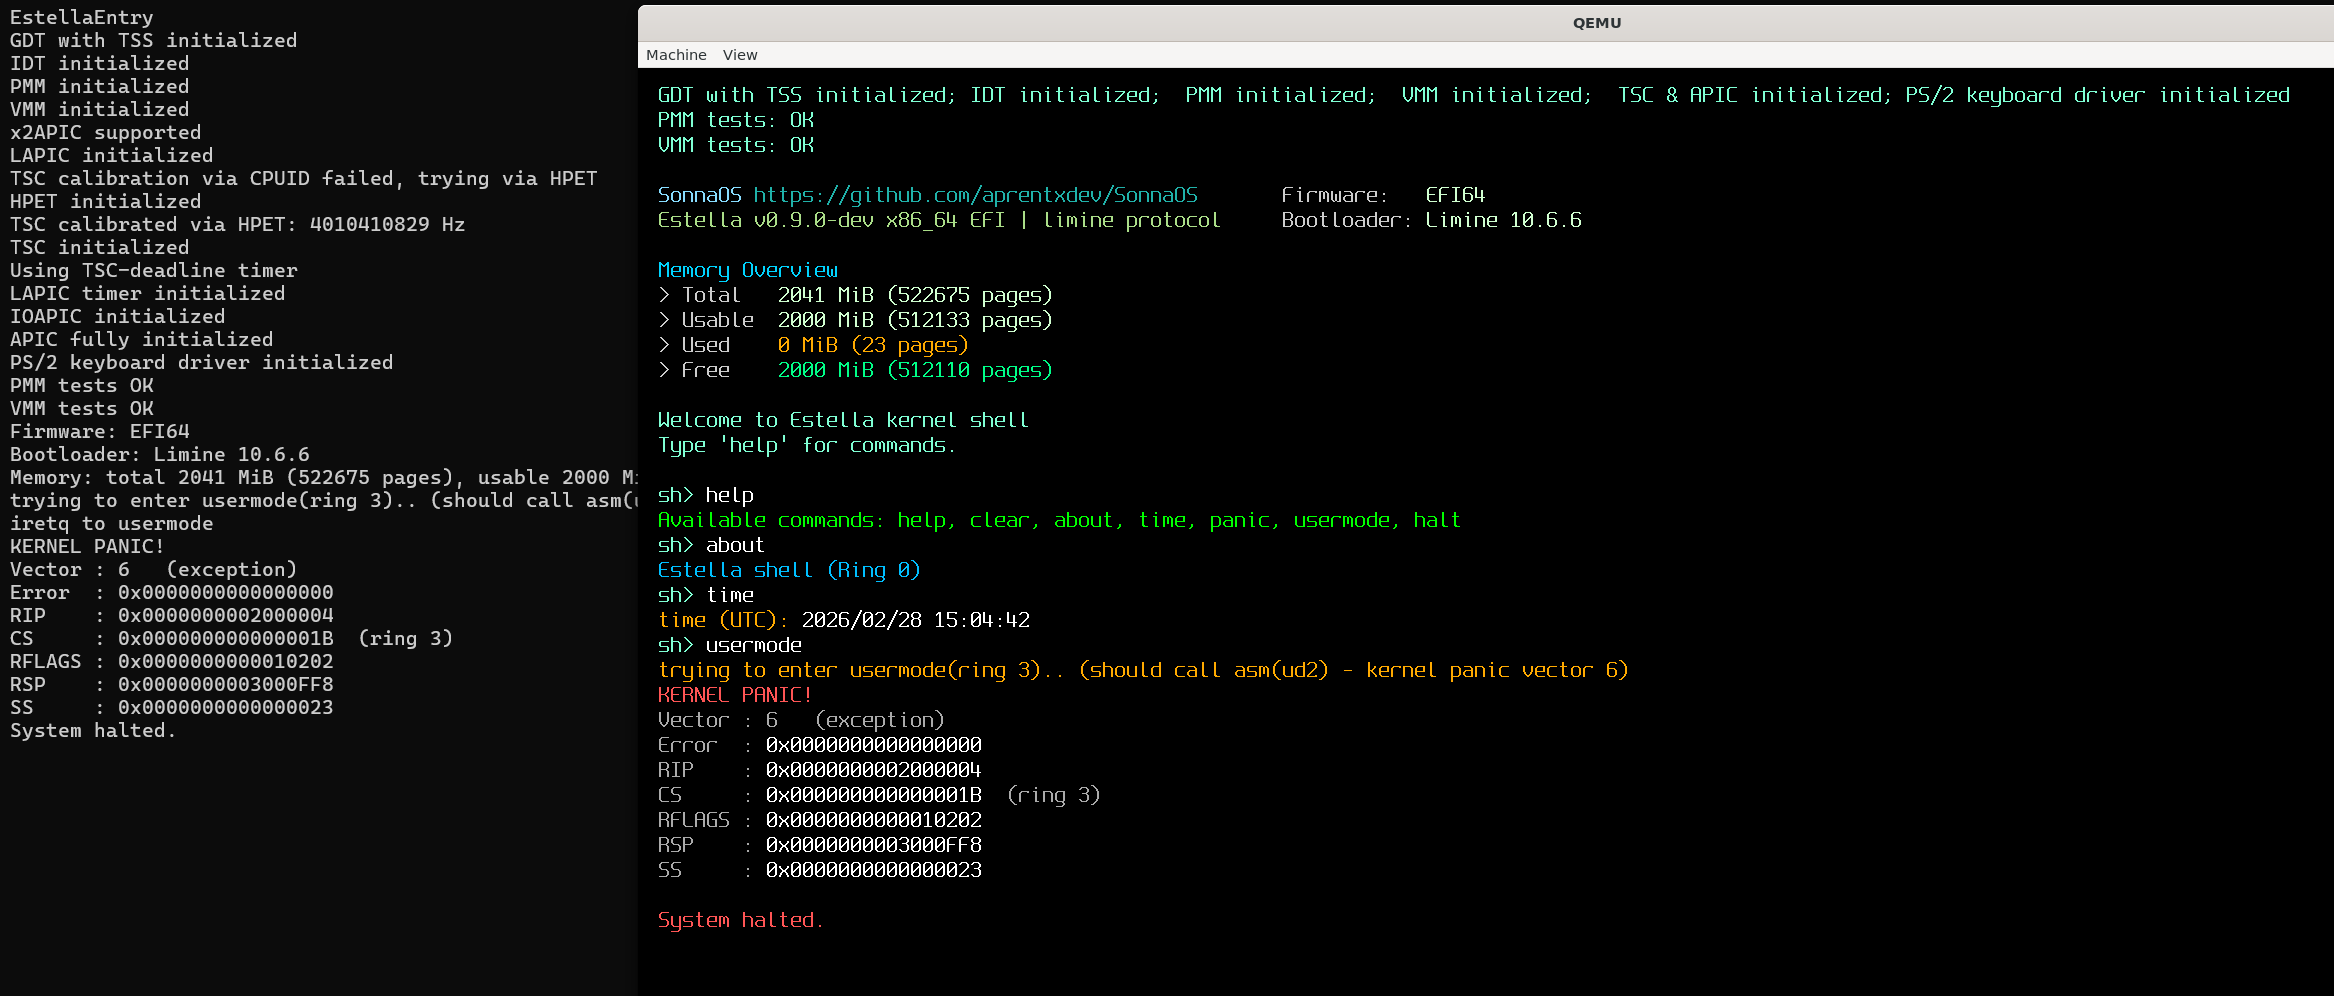
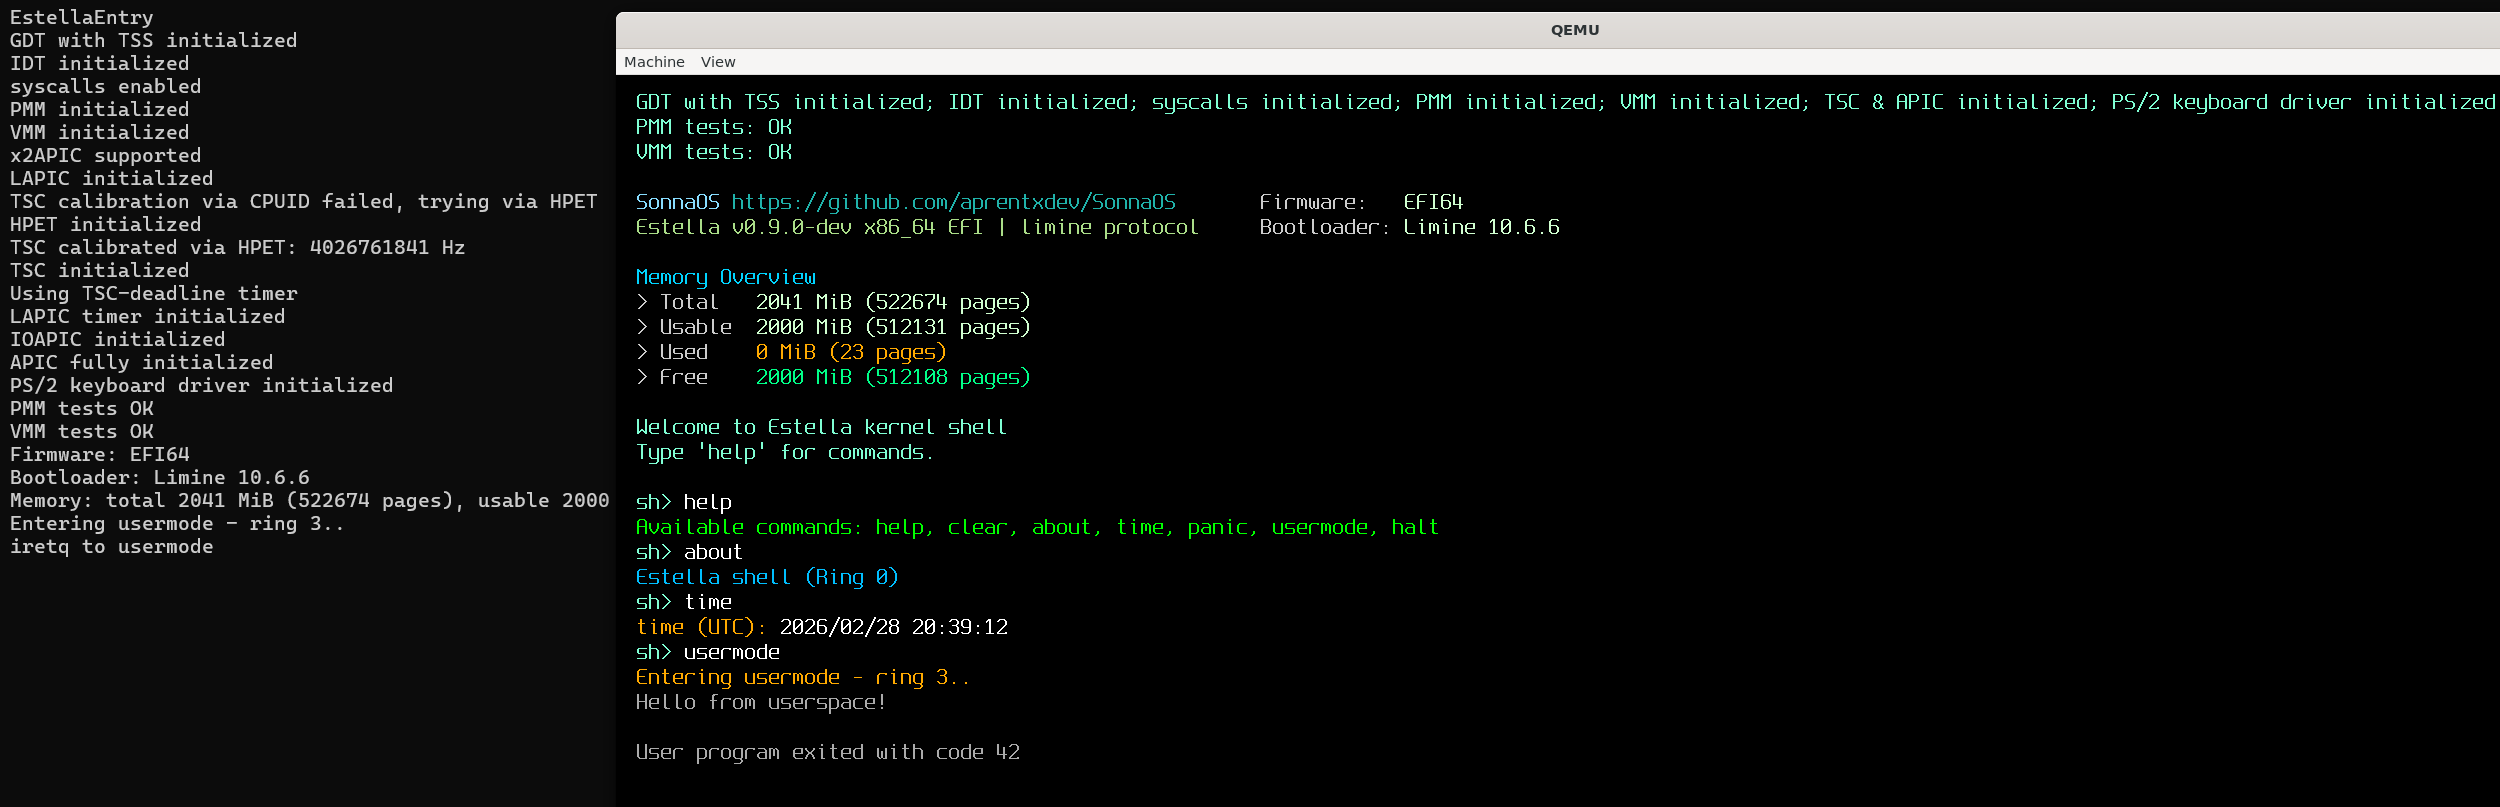
kernel: add write and exit syscalls + hello usermode test program

Changed region(s): [[0.0, 0.0, 1.0, 0.9603], [0.617, 0.1859, 0.6787, 0.2478], [0.5553, 0.4957, 0.5861, 0.5266]]

diff --git a/kernel/arch/x86_64/syscalls/syscalls.c b/kernel/arch/x86_64/syscalls/syscalls.c
@@ -1,0 +1,73 @@
+#include "drivers/fbtext.h"
+#include <drivers/serial.h>
+#include <klib/string.h>
+#include <klib/memory.h>
+#include <stdint.h>
+#include <arch/x86_64/cpu/msr.h>
+
+extern void syscall_handler(void);
+
+#define EFER_MSR         0xC0000080
+#define IA32_STAR_MSR    0xC0000081
+#define IA32_LSTAR_MSR   0xC0000082
+#define IA32_FMASK_MSR   0xC0000084
+
+#define KERNEL_CS 0x08
+#define KERNEL_DS 0x10
+#define USER_CS   0x1B
+#define USER_DS   0x23
+
+void syscalls_init(void)
+{
+    uint64_t efer = rdmsr(EFER_MSR);
+    efer |= (1ULL << 0);
+    wrmsr(EFER_MSR, efer);
+
+    wrmsr(IA32_LSTAR_MSR, (uint64_t)syscall_handler);
+
+    uint64_t star = 0;
+    star |= ((uint64_t)KERNEL_CS) << 32;
+    star |= ((uint64_t)USER_CS) << 48;
+    star |= ((uint64_t)USER_CS) << 16;
+    wrmsr(IA32_STAR_MSR, star);
+
+    wrmsr(IA32_FMASK_MSR, (1ULL << 9));
+
+    serial_puts("syscalls enabled\n");
+}
+
+#define SYS_WRITE 1
+#define SYS_EXIT 60
+
+static char buf[64];
+
+typedef struct {
+    uint64_t rax, rbx, rbp, rdi, rsi, rdx, rcx, r8, r9, r10, r11, r12, r13, r14, r15;
+    uint64_t rip, rflags, rsp;
+} syscall_context_t;
+
+uint64_t syscall_common_handler(syscall_context_t *ctx) {
+    switch (ctx->rax)
+    {
+        case SYS_WRITE:
+        {
+            const char *s = (const char *)ctx->rsi;
+            fb_print(s, 0xAAAAAA);
+            return 0;
+        }
+
+        case SYS_EXIT:
+            fb_print("\nUser program exited with code ", 0xAAAAAA);
+            u64_to_dec(ctx->rdi, buf);
+            fb_print(buf, 0xAAAAAA);
+            fb_print("\n", 0xAAAAAA);
+            while (1) asm volatile ("hlt");
+
+        default:
+            fb_print("unhandled syscall #", 0xAAAAAA);
+            u64_to_dec(ctx->rax, buf);
+            fb_print(buf, 0xAAAAAA);
+            fb_print("\n", 0x000000);
+            return -1;
+    }
+}

diff --git a/kernel/arch/x86_64/boot/main.c b/kernel/arch/x86_64/boot/main.c
@@ -19,6 +19,7 @@
 #include <colors.h>
 #include <shell_kspace/kernelshell.h>
 #include <arch/x86_64/time/time.h>
+#include <arch/x86_64/syscalls/syscalls.h>
 
 #define ESTELLA_VERSION "Estella v0.9.0-dev"
 
@@ -274,9 +275,10 @@ void EstellaEntry(void) {
     // init everything
     gdt_init(); fb_print("GDT with TSS initialized;", COL_SUCCESS_INIT);
     idt_init(); fb_print(" IDT initialized;", COL_SUCCESS_INIT);
-    pmm_init(); fb_print("  PMM initialized;", COL_SUCCESS_INIT); 
-    vmm_init(); fb_print("  VMM initialized;", COL_SUCCESS_INIT); 
-    apic_init(); fb_print("  TSC & APIC initialized;", COL_SUCCESS_INIT);
+    syscalls_init(); fb_print(" syscalls initialized;", COL_SUCCESS_INIT);
+    pmm_init(); fb_print(" PMM initialized;", COL_SUCCESS_INIT); 
+    vmm_init(); fb_print(" VMM initialized;", COL_SUCCESS_INIT); 
+    apic_init(); fb_print(" TSC & APIC initialized;", COL_SUCCESS_INIT);
     time_init();
     keyboard_init(); fb_print(" PS/2 keyboard driver initialized\n", COL_SUCCESS_INIT);
     // stopwatch_init();
@@ -289,6 +291,5 @@ void EstellaEntry(void) {
     asm volatile("sti");
 
     launch_shell(); // kernelshell.h
-
     hcf();
 }

diff --git a/userspace/programs/write_and_exit.c b/userspace/programs/write_and_exit.c
@@ -1,0 +1,39 @@
+#define SYS_WRITE  1
+#define SYS_EXIT   60
+
+static inline long syscall3(long n, long arg1, long arg2, long arg3)
+{
+    long ret;
+    asm volatile(
+        "mov %1, %%rdi\n"
+        "mov %2, %%rsi\n"
+        "mov %3, %%rdx\n"
+        "mov %4, %%rax\n"
+        "syscall\n"
+        : "=a"(ret)
+        : "er"(arg1), "er"(arg2), "er"(arg3), "i"(n)
+        : "rcx", "r11", "memory"
+    );
+    return ret;
+}
+
+static inline void syscall1(long n, long arg1)
+{
+    asm volatile(
+        "mov %0, %%rax\n"
+        "mov %1, %%rdi\n"
+        "syscall\n"
+        :
+        : "i"(n), "i"(arg1)
+        : "rcx", "r11", "memory"
+    );
+}
+
+void user_main(void)
+{
+    const char msg[] = "Hello from userspace!\n";
+
+    syscall3(SYS_WRITE, 1, (long)msg, sizeof(msg)-1);
+
+    syscall1(SYS_EXIT, 42);
+}

diff --git a/kernel/shell_kspace/kernelshell.c b/kernel/shell_kspace/kernelshell.c
@@ -49,8 +49,8 @@ static void execute_command(const char* cmd) {
         while (1) asm("hlt");
     }
     else if (strcmp(cmd, "usermode") == 0) {
-        fb_print("trying to enter usermode(ring 3).. (should call asm(ud2) - kernel panic vector 6)\n", 0xFFAA00);
-        serial_puts("trying to enter usermode(ring 3).. (should call asm(ud2) - kernel panic vector 6)\n");
+        fb_print("Entering usermode - ring 3..\n", 0xFFAA00);
+        serial_puts("Entering usermode - ring 3..\n");
         enter_usermode();
     }
     else {

diff --git a/kernel/arch/x86_64/cpu/gdt.h b/kernel/arch/x86_64/cpu/gdt.h
@@ -28,7 +28,7 @@ struct gdt_system_entry { // 16 byte tss/ldt descriptor
     uint32_t reserved;
 } __attribute__((packed));
 
-static struct {
+struct tss_struct {
     uint32_t reserved0;
     uint64_t rsp0;
     uint64_t rsp1;
@@ -44,7 +44,7 @@ static struct {
     uint64_t reserved2;
     uint16_t reserved3;
     uint16_t iomap_base;
-} __attribute__((packed)) tss = {0};
+} __attribute__((packed));
 
 void gdt_init(void);
 

diff --git a/kernel/arch/x86_64/cpu/gdt.c b/kernel/arch/x86_64/cpu/gdt.c
@@ -5,6 +5,7 @@
 
 static struct gdt_entry gdt[GDT_ENTRIES] __attribute__((aligned(16))) = {0};
 static struct gdt_ptr gp;
+struct tss_struct tss;
 
 #define IST_STACK_SIZE 8192
 static uint8_t ist1_stack[IST_STACK_SIZE] __attribute__((aligned(16)));

diff --git a/kernel/arch/x86_64/syscalls/syscalls.h b/kernel/arch/x86_64/syscalls/syscalls.h
@@ -1,0 +1,6 @@
+#ifndef ESTELLA_ARCH_X86_64_SYSCALLS_SYSCALLS_H
+#define ESTELLA_ARCH_X86_64_SYSCALLS_SYSCALLS_H
+
+void syscalls_init(void);
+
+#endif

diff --git a/README.md b/README.md
@@ -28,8 +28,9 @@ Writing an operating system to explore low-level architecture and hardware progr
 - ✅ Virtual Memory Manager (VMM) with self-tests
 - ✅ PS/2 keyboard driver
 - ✅ Temporarily kernelspace shell
-- ✅ Basic usermode support (iretq transition with isolated page tables)
-- ✅ Embedded usermode test program (stack check + panic via ud2)
+- ✅ usermode support (iretq transition with isolated page tables)
+- ✅ syscalls: write (1), exit(60)
+- ✅ Embedded usermode test program (write "hello from userpace" + exit with code 42)
 
 ### Requirements
 - clang + ld.lld
